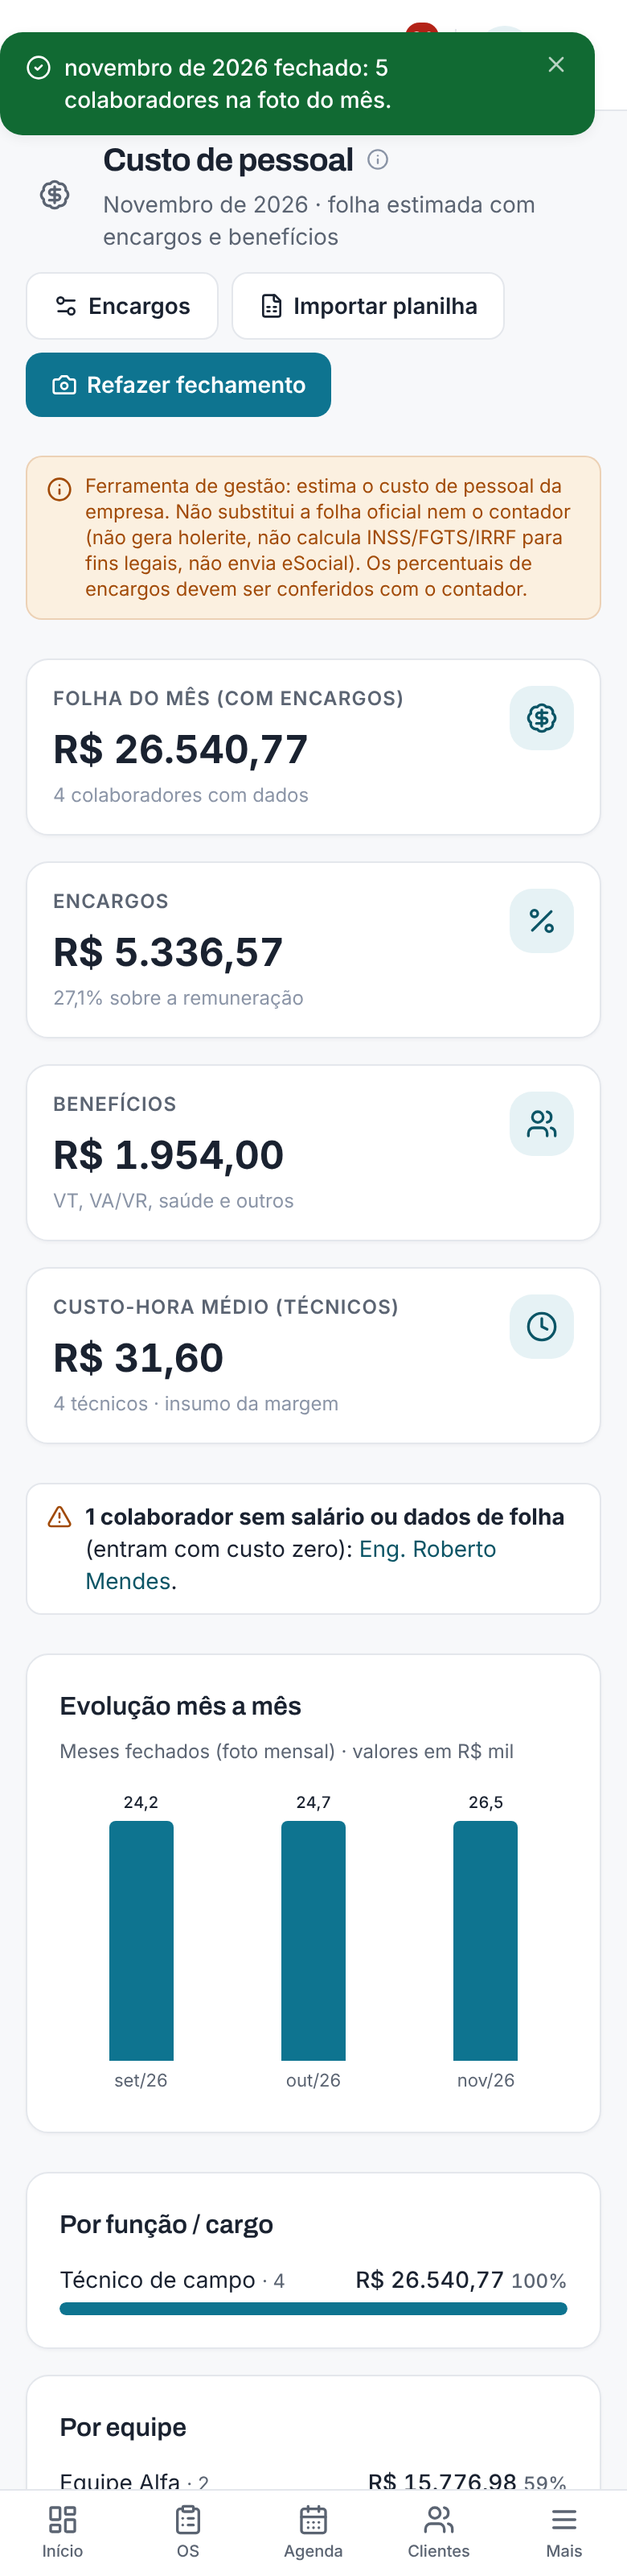
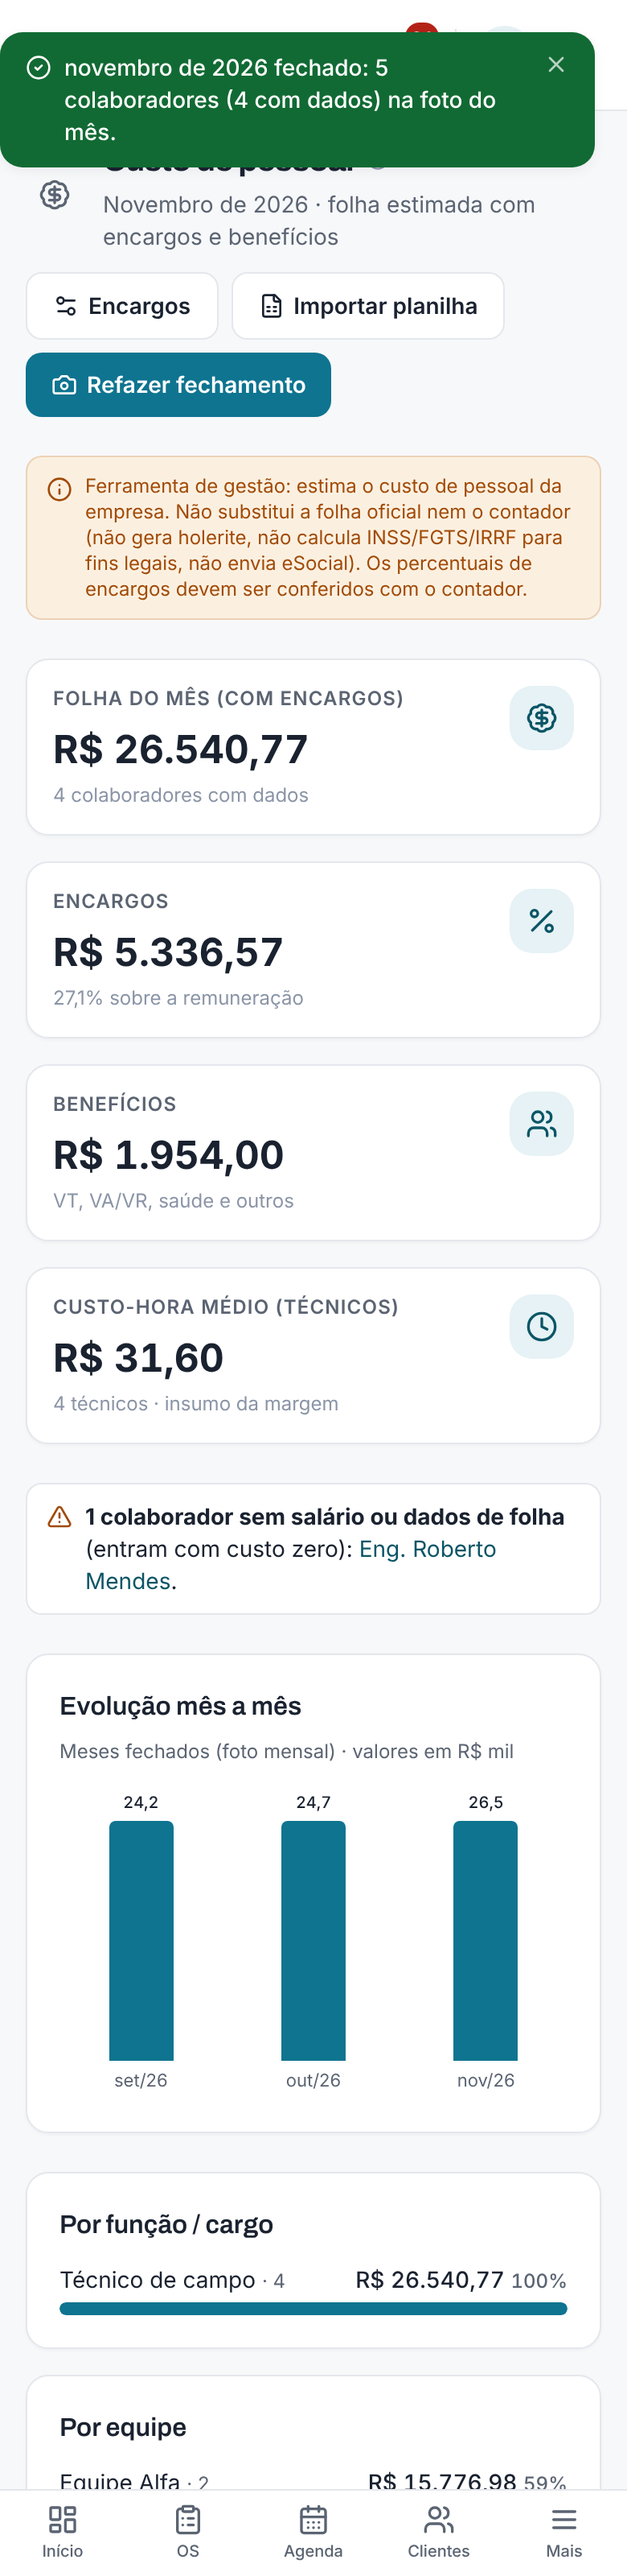
Leva 8C: o toast do fechamento mostra os dois numeros
A foto do mes fotografa todo colaborador ativo (quem esta sem salario entra com custo zero), enquanto o card conta so quem tem dados. O toast agora diz '5 colaboradores (4 com dados)' para os dois numeros nao parecerem erro; quando todos tem dados o parentese nao aparece.

fecharMes passou a devolver a contagem comDados - uma linha no retorno. O que e gravado nao mudou: a foto e montada e escrita do mesmo jeito, e os testes de PostgreSQL conferem o conteudo.

Claude-Session: https://claude.ai/code/session_01NogQSnn1DhMU16avoGcmWJ

Changed region(s): [[0.0, 0.0312, 0.9538, 0.0625]]

diff --git a/tests/unit/padronizacao-leva8c-ui.test.ts b/tests/unit/padronizacao-leva8c-ui.test.ts
@@ -76,7 +76,7 @@ describe("fechar o mês", () => {
   }
 
   it("pergunta antes e avisa por toast, com o plural escrito", async () => {
-    respostas["POST /api/folha/fechar-mes"] = { status: 200, corpo: { ok: true, colaboradores: 8, total: 41234.5 } };
+    respostas["POST /api/folha/fechar-mes"] = { status: 200, corpo: { ok: true, colaboradores: 8, comDados: 8, total: 41234.5 } };
     await montarFechar();
     await clicar($('[data-acao="fechar-mes"]'));
     const o = avisos.confirmar.mock.calls[0][0] as { mensagem: string; titulo: string };
@@ -84,14 +84,24 @@ describe("fechar o mês", () => {
     expect(o.mensagem).toContain("novembro de 2026");
     expect(chamadas.at(-1)).toMatchObject({ url: "/api/folha/fechar-mes", metodo: "POST", corpo: { competencia: "2026-11" } });
     expect(avisos.lista).toEqual([["novembro de 2026 fechado: 8 colaboradores na foto do mês.", "sucesso"]]);
+    // todos com dados: sem parêntese, que só serviria para repetir o mesmo número
     expect(nav.refresh).toHaveBeenCalled();
   });
 
   it("um colaborador só: o toast fala no singular", async () => {
-    respostas["POST /api/folha/fechar-mes"] = { status: 200, corpo: { ok: true, colaboradores: 1, total: 4100 } };
+    respostas["POST /api/folha/fechar-mes"] = { status: 200, corpo: { ok: true, colaboradores: 1, comDados: 1, total: 4100 } };
     await montarFechar();
     await clicar($('[data-acao="fechar-mes"]'));
     expect(avisos.lista.at(-1)![0]).toContain("1 colaborador na foto do mês.");
+  });
+
+  it("com gente sem dados de folha, o toast mostra os dois números", async () => {
+    // a foto fotografa todo mundo (quem está sem salário entra com custo zero); o card da tela
+    // conta só quem tem dados — os dois juntos para o leitor não achar que um deles está errado
+    respostas["POST /api/folha/fechar-mes"] = { status: 200, corpo: { ok: true, colaboradores: 5, comDados: 4, total: 26540.77 } };
+    await montarFechar();
+    await clicar($('[data-acao="fechar-mes"]'));
+    expect(avisos.lista).toEqual([["novembro de 2026 fechado: 5 colaboradores (4 com dados) na foto do mês.", "sucesso"]]);
   });
 
   it("refazer avisa que a foto anterior é substituída, e o botão muda de nome", async () => {

diff --git a/tests/unit/padronizacao-leva8c-pg.test.ts b/tests/unit/padronizacao-leva8c-pg.test.ts
@@ -196,7 +196,7 @@ describe.skipIf(!URL_PG)("Leva 8C — folha e fiscal (PostgreSQL real)", () => {
   it("a foto do mês bate centavo por centavo com o cálculo de lib/folha/calculo", async () => {
     const r = await fecharMes("2026-10");
     expect(r.status).toBe(200);
-    expect(r.json).toMatchObject({ ok: true, colaboradores: 1 });
+    expect(r.json).toMatchObject({ ok: true, colaboradores: 1, comDados: 1 });
 
     const esperado = custoEsperado([{ nome: "INSS patronal", percentual: 20 }, { nome: "FGTS", percentual: 8 }]);
     const foto = await prisma.folhaSnapshot.findFirst({ where: { competencia: "2026-10", colaboradorId: "t1" } });
@@ -243,6 +243,17 @@ describe.skipIf(!URL_PG)("Leva 8C — folha e fiscal (PostgreSQL real)", () => {
     expect(await prisma.folhaSnapshot.count({ where: { empresaId: "e1" } })).toBe(2);
     const outra = await prisma.folhaSnapshot.findFirst({ where: { empresaId: "e2" } });
     expect([outra.colaboradorId, Number(outra.custoTotal)]).toEqual(["outro", 1000]);
+  });
+
+  it("quem está sem dados de folha entra na foto com custo zero, e a rota devolve as duas contagens", async () => {
+    await prisma.tecnico.create({ data: {
+      id: "t2", empresaId: "e1", nome: "Sem folha", cpf: "168.995.350-09", telefone: "11988880000",
+      tipo: "ADMINISTRATIVO", jornadaDias: ["SEG"],
+    } });
+    const r = await fecharMes("2026-10");
+    expect(r.json).toMatchObject({ colaboradores: 2, comDados: 1 });
+    const foto = await prisma.folhaSnapshot.findFirst({ where: { colaboradorId: "t2" } });
+    expect([Number(foto.custoTotal), foto.detalhe.semDados]).toEqual([0, true]);
   });
 
   it("mês futuro é recusado (400) e não grava foto nenhuma", async () => {

diff --git a/tests/unit/padronizacao-leva8c.test.ts b/tests/unit/padronizacao-leva8c.test.ts
@@ -220,7 +220,6 @@ describe("folha e NFS-e são razão: nada se apaga", () => {
 describe("a leva não tocou no cálculo, na emissão nem nos vínculos", () => {
   const arquivosIntocados = [
     "lib/folha/calculo.ts",
-    "lib/folha/server.ts",
     "lib/folha/planilha.ts",
     "lib/folha/importacao.ts",
     "app/api/folha/fechar-mes/route.ts",
@@ -253,6 +252,16 @@ describe("a leva não tocou no cálculo, na emissão nem nos vínculos", () => {
   it("os arquivos do cálculo, da emissão e do vínculo existem com o nome que a guarda cobra", () => {
     // sem isto, um arquivo renomeado faria a guarda acima passar comparando nada
     for (const arq of arquivosIntocados) expect(ler(arq).length, arq).toBeGreaterThan(0);
+  });
+
+  it("em lib/folha/server.ts só o retorno do fechamento mudou: o que é GRAVADO continua igual", () => {
+    const src = ler("lib/folha/server.ts");
+    // a foto é montada e gravada do mesmo jeito (o teste de PostgreSQL confere o conteúdo)
+    expect(src).toContain("const { linhas } = await folhaAtual(empresaId, competencia);");
+    expect(src).toContain("deleteMany({ where: { empresaId, competencia } })");
+    expect(src).toContain("prisma.folhaSnapshot.createMany({ data })");
+    // o acréscimo é só contagem devolvida para o aviso da tela
+    expect(src).toContain("comDados: linhas.filter((l) => !l.semDados).length,");
   });
 
   it("o vínculo custo de pessoal ↔ Desempenho continua sendo o CSV do fechamento", () => {

diff --git a/components/folha/fechar-mes.tsx b/components/folha/fechar-mes.tsx
@@ -23,7 +23,11 @@ export function FecharMes({ competencia, rotulo, jaFechado }: { competencia: str
       // Sucesso é toast (padrão da casa); o erro fica na tela, ao lado do botão
       if (!r.ok) { setMsg({ ok: false, texto: d.erro ?? "Não foi possível fechar o mês." }); return; }
       const n = Number(d.colaboradores ?? 0);
-      toast(`${rotulo} fechado: ${n === 1 ? "1 colaborador" : `${n} colaboradores`} na foto do mês.`);
+      const comDados = Number(d.comDados ?? n);
+      const quantos = n === 1 ? "1 colaborador" : `${n} colaboradores`;
+      // quem está sem salário entra na foto com custo zero: os dois números juntos para não parecer erro
+      const detalhe = comDados === n ? "" : ` (${comDados} com dados)`;
+      toast(`${rotulo} fechado: ${quantos}${detalhe} na foto do mês.`);
       router.refresh();
     } catch {
       setMsg({ ok: false, texto: "Erro de conexão." });

diff --git a/lib/folha/server.ts b/lib/folha/server.ts
@@ -132,7 +132,12 @@ export async function fecharMes(empresaId: string, competencia: string, criadoPo
     prisma.folhaSnapshot.deleteMany({ where: { empresaId, competencia } }),
     prisma.folhaSnapshot.createMany({ data }),
   ]);
-  return { colaboradores: data.length, total: Math.round(data.reduce((s, d) => s + d.custoTotal, 0) * 100) / 100 };
+  // `comDados` só conta: a foto grava todo colaborador ativo, inclusive quem entra com custo zero
+  return {
+    colaboradores: data.length,
+    comDados: linhas.filter((l) => !l.semDados).length,
+    total: Math.round(data.reduce((s, d) => s + d.custoTotal, 0) * 100) / 100,
+  };
 }
 
 /** Evolução mês a mês (meses fechados), das `meses` competências até `ate` (inclusive). */

diff --git a/docs/padronizacao-leva8c.md b/docs/padronizacao-leva8c.md
@@ -50,7 +50,7 @@ de antes da chamada**.
 | totais no rodapé da tabela | totais na **faixa da tabela** (a casa não tem rodapé de tabela); no celular, o título "Por colaborador · 5 ativos" |
 | sem ⓘ | ⓘ no título: de onde vem o custo, o que são os encargos e o que "Fechar o mês" guarda |
 | "4 colaborador(es) com dados", "4 técnico(s)", "1 colaborador(es) sem salário/dados de folha", "5 ativo(s)" | plural escrito: "4 colaboradores com dados", "4 técnicos", "1 colaborador sem salário ou dados de folha", "5 ativos" |
-| "Mês fechado (5 colaboradores)" em verde, fixo ao lado do botão | **toast**: "novembro de 2026 fechado: 5 colaboradores na foto do mês." — e o **erro continua na tela**, ao lado do botão |
+| "Mês fechado (5 colaboradores)" em verde, fixo ao lado do botão | **toast**: "novembro de 2026 fechado: 5 colaboradores (4 com dados) na foto do mês." — e o **erro continua na tela**, ao lado do botão |
 | números com classes soltas | tokens `PLANILHA.numero` (alinhado pelos algarismos) |
 | lista vazia escrita na tela | `ListaVazia` da casa |
 
@@ -95,7 +95,7 @@ como guarda de teste.
 
 ## O que esta leva não encostou
 
-- **cálculo da folha** (`lib/folha/calculo.ts`), montagem das linhas e fechamento (`lib/folha/server.ts`);
+- **cálculo da folha** (`lib/folha/calculo.ts`) e montagem das linhas;
 - **importação** (`lib/folha/planilha.ts`, `lib/folha/importacao.ts`) e as rotas de folha;
 - **emissão de NFS-e** (`lib/nfse/*`) e o vínculo nota ↔ medição/conta a pagar;
 - **Desempenho**: o vínculo com o custo de pessoal é o **CSV do fechamento**
@@ -103,6 +103,12 @@ como guarda de teste.
 
 Isso não é promessa: um teste compara, com `git diff` contra o merge-base do master, a lista desses
 arquivos — se qualquer um deles mudar, o teste cai.
+
+**A única exceção, consciente:** `lib/folha/server.ts` ganhou **uma linha** no retorno de
+`fecharMes` — a contagem `comDados`, para o toast poder dizer "5 colaboradores (4 com dados)". O que
+é **gravado** não mudou: a foto é montada e escrita do mesmo jeito, e o teste de PostgreSQL confere
+o conteúdo (bate centavo por centavo com `calcularCusto`). Um teste de fonte cobra que só o retorno
+mudou: as três linhas que montam, apagam e gravam a foto continuam ali.
 
 > O brief citava `modulo-custo-de-pessoal-folha.md` como referência do vínculo. Esse arquivo não
 > existe em `docs/` (o que há sobre fechamento e folha de bônus está em `docs/desempenho.md`). Usei
@@ -118,7 +124,7 @@ arquivos — se qualquer um deles mudar, o teste cai.
 
 ## Testes
 
-Três arquivos novos, 46 casos:
+Três arquivos novos, 49 casos:
 
 - `tests/unit/padronizacao-leva8c.test.ts` — guardas de fonte: trava em cada tela e cada rota,
   TabelaPro sem `<table>` à mão, totais na faixa, tokens de planilha, ⓘ em todas as telas, plural
@@ -136,9 +142,10 @@ Três arquivos novos, 46 casos:
 sucesso **e** o toast. Agora cobra o toast e exige que o recado **não** fique na tela — é a mudança
 intencional desta leva, não um teste afrouxado.
 
-**Mutação: 7 quebras propositais, 7 pegas.** Tirar a trava da tela do emitente, trocar o toast do
+**Mutação: 8 quebras propositais, 8 pegas.** Tirar a trava da tela do emitente, trocar o toast do
 fechamento por recado na tela, atualizar a tela mesmo com 403, voltar ao plural abreviado, afrouxar
-a permissão da rota de fechar o mês, fazer o refazer não substituir a foto, tirar o ⓘ do título.
+a permissão da rota de fechar o mês, fazer o refazer não substituir a foto, tirar o ⓘ do título,
+sumir com o "(4 com dados)" do toast.
 
 Suíte inteira verde.
 
@@ -160,10 +167,9 @@ igual ao das levas anteriores).
 
 ## ❓ Para conferir
 
-1. **O toast do fechamento conta 5, o card conta 4.** A foto do mês fotografa **todos os
-   colaboradores ativos** (quem está sem salário entra com custo zero), enquanto o card diz "4
-   colaboradores com dados". Os dois números estão certos, mas ficam lado a lado na tela. Mantive
-   como está (era assim antes, e mudar mexeria no que o fechamento grava). Se preferir, o toast pode
-   dizer "5 colaboradores (4 com dados)".
+1. **O toast do fechamento mostra os dois números — decidido pelo Zé.** A foto fotografa **todos os
+   colaboradores ativos** (quem está sem salário entra com custo zero) e o card conta só quem tem
+   dados; o toast agora diz "5 colaboradores (4 com dados)", para os dois números não parecerem
+   erro. Quando todos têm dados o parêntese não aparece (repetiria o mesmo número).
 2. **Coluna Descontos oculta por padrão.** Foi escolha minha para a tabela caber sem rolagem
    horizontal no notebook. Fica a um clique em "Colunas", e a escolha é lembrada por usuário.
